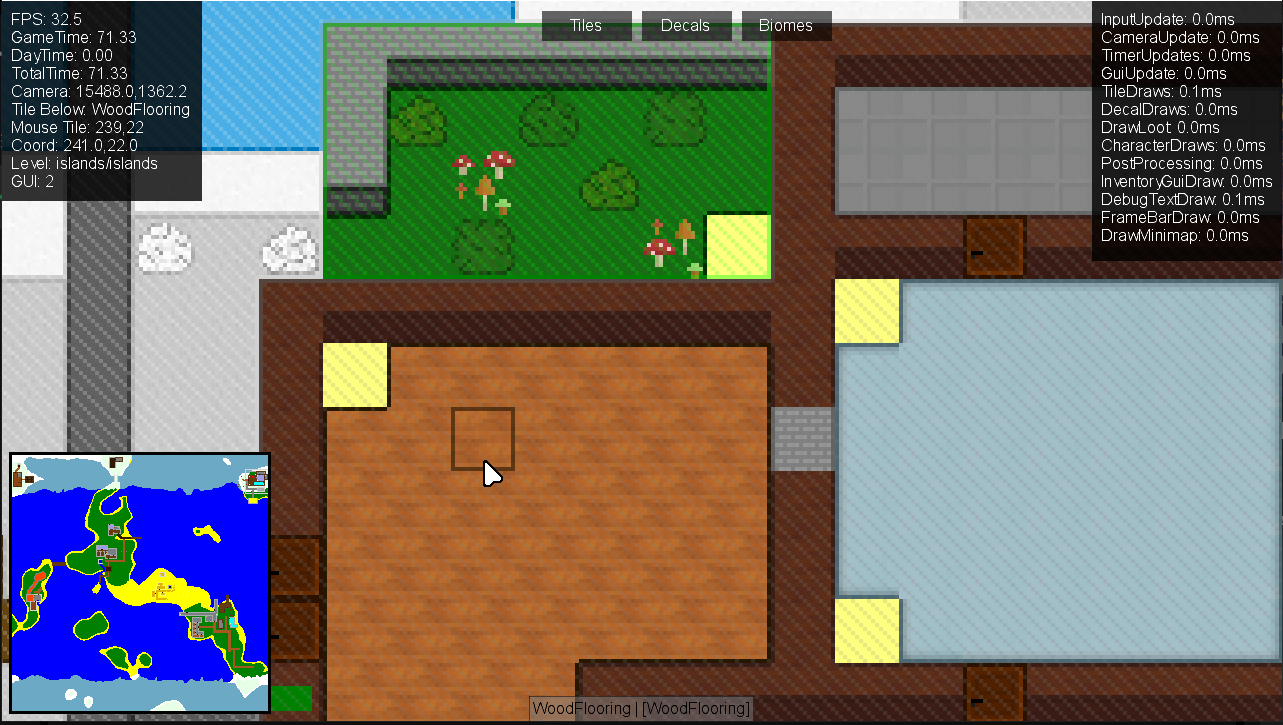
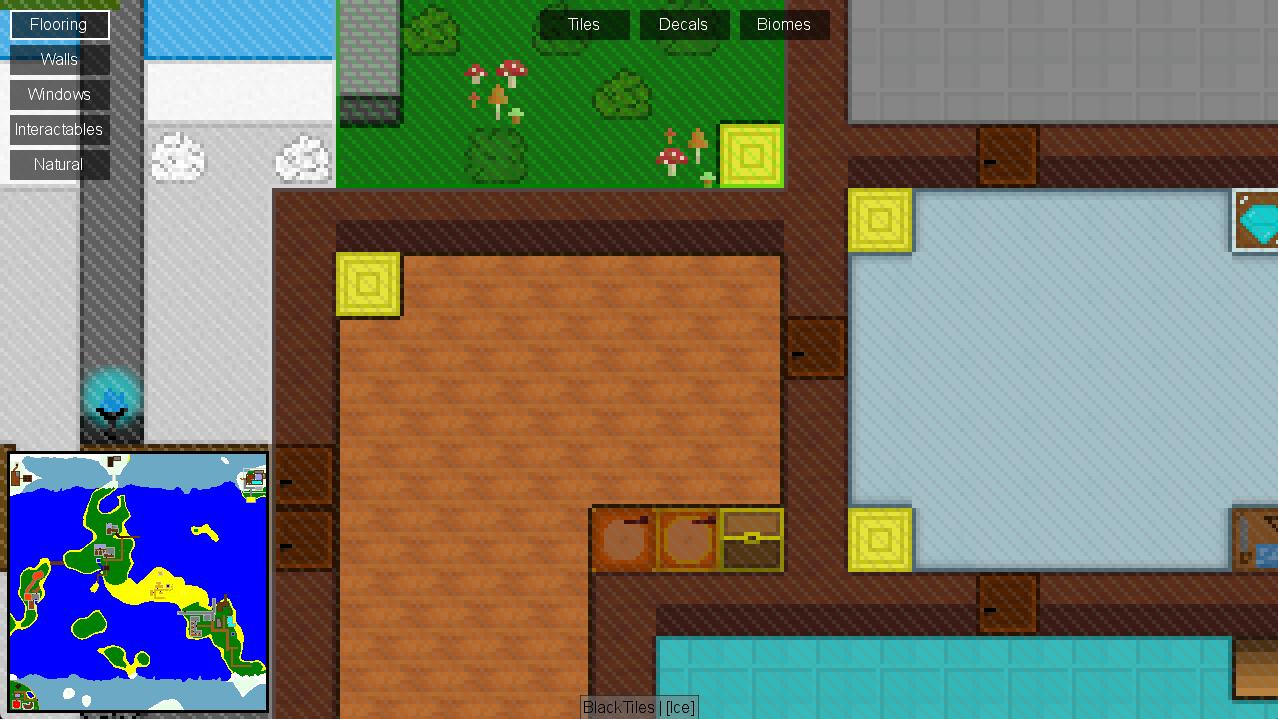
Updated README

diff --git a/Quill/Interpreter.cs b/Quill/Interpreter.cs
@@ -48,8 +48,7 @@ public class QuillInstance
             if (IsSleeping)
             {
                 SleepTimer -= GameManager.DeltaTime * 1000; // Convert to ms
-                if (IsSleeping)
-                    return stepsUsed;
+                return stepsUsed;
             }
 
             // Run lines - ensure enough step budget, not done, and line hasn't been run at all or above the allowance
@@ -58,9 +57,7 @@ public class QuillInstance
                 // Run
                 Interpreter.RunLine(this);
                 stepsUsed++;
-                // Optimization to not run same lines in one frame
                 LinesVisited[L] = LinesVisited.TryGetValue(L, out reps) ? reps + 1 : 1;
-
                 L++;
             }
         }

diff --git a/README.md b/README.md
@@ -61,14 +61,15 @@ These controls are the default keybinds and can be changed in the settings menu 
     - `[` and `]` or `Mouse Wheel` to change the selected tile, biome, or decal.  
     - `Ctrl + O` to open a level.  
     - `Ctrl + F` to flood fill the current tile, biome, or decal.  
-    - `Ctrl + S` to export the current level.  
+    - `Ctrl + W` to set the spawn to the selected tile.  
     - `Ctrl + N` to make a new NPC.  
     - `Ctrl + Shift + L` to delete an NPC.  
     - `Ctrl + L` to create a new Loot.  
     - `Ctrl + Shift + L` to delete a Loot.  
     - `Ctrl + D` to create a new Decal.  
     - `Ctrl + Shift + D` to delete a Decal.  
-    - `Ctrl + S` to set the level spawn to the mouse position.  
+    - `Ctrl + S` to save the current level.  
+    - `Ctrl + Shift + S` to save the current level by opening the file selector dialog.  
     - `Ctrl + T` to set the level tint.  
     - `Ctrl + G` to generate a new level.  
     - `Ctrl + R` to resave the level. This will not write any current changes to disk.  
@@ -78,8 +79,10 @@ These controls are the default keybinds and can be changed in the settings menu 
 ### Tools
 - **Tool Selection**  
 Switch between tile, biome, and decal tools using the buttons at the top of the screen or by pressing `1`, `2`, or `3`.
-- **Tile Palette**  
-Select tiles from the palette to place them in the level. The selected tile can be changed with `mouse wheel` or `[` and `]`.
+- **Tiles**  
+Select tiles from the current tile set to place them in the level. The selected tile can be changed with `mouse wheel` or `[` and `]`.
+- **Tileset**  
+The selected tileset can be changed with `Q` and `E` or by pressing the tileset button on the left side.
 - **Biome Palette**  
 Select biomes from the palette to paint them in the level. The selected biome can be changed with `mouse wheel` or `[` and `]`.
 - **Decal Palette**  
